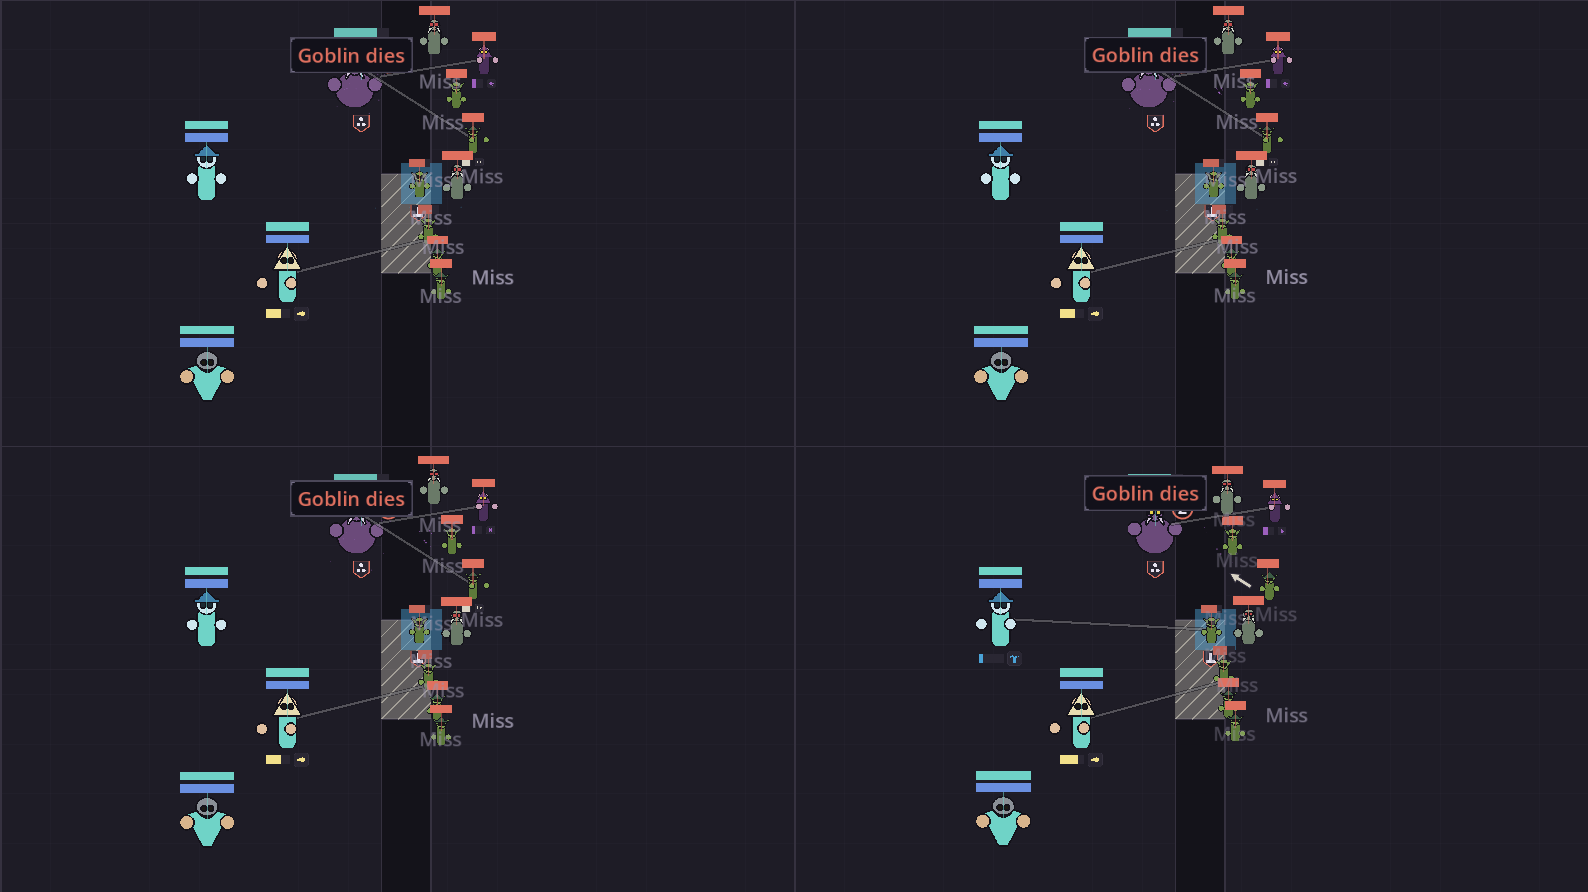
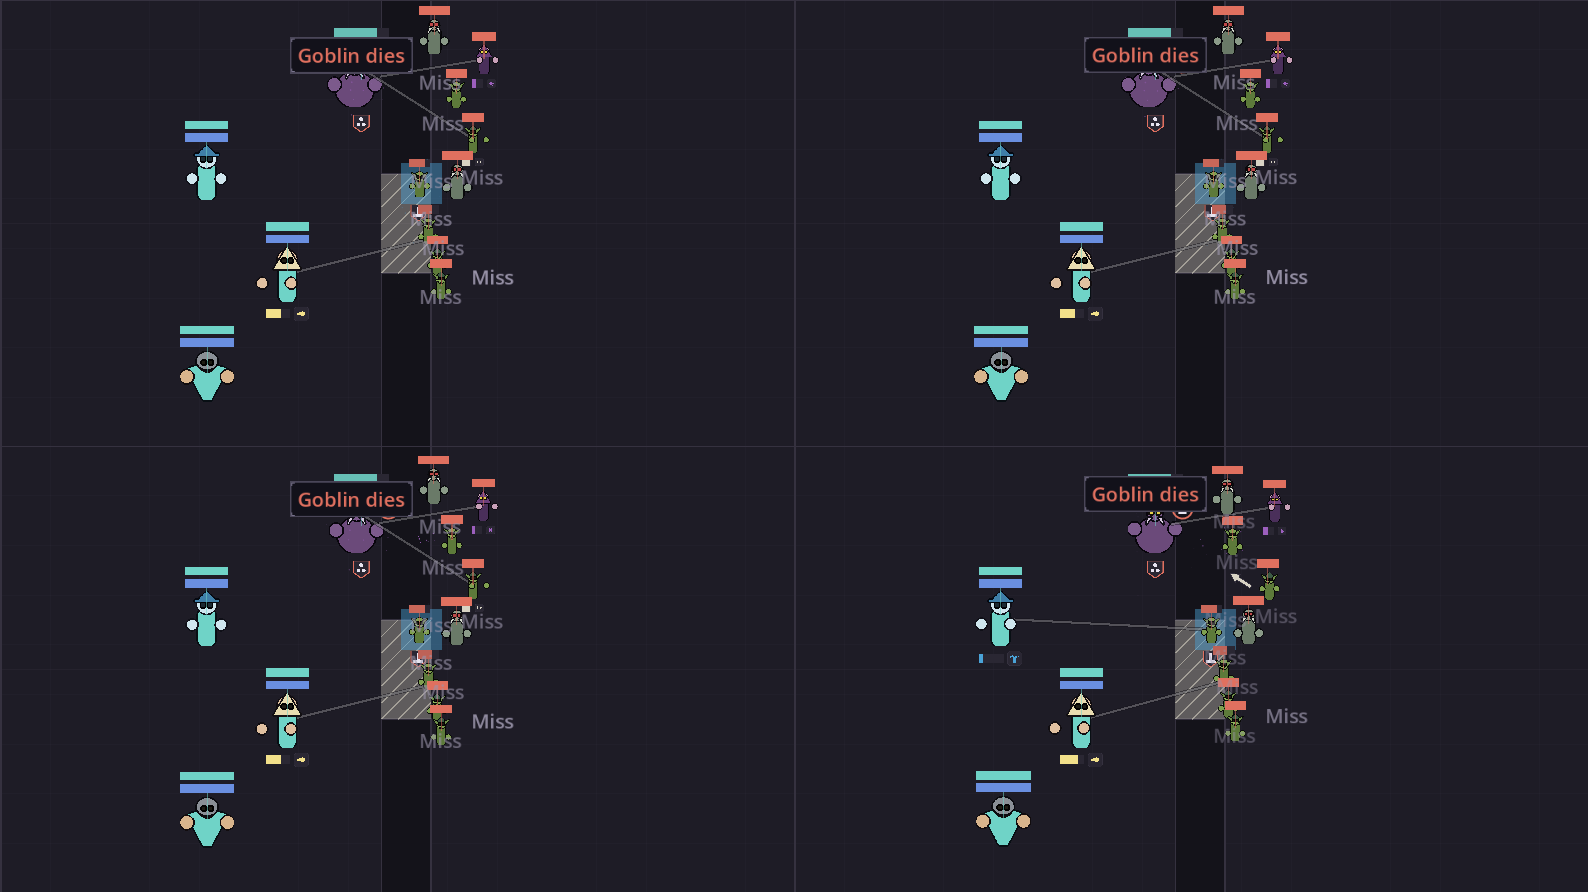
Re-shoot the previews, and correct what the docs and instruments now claim
Assets/Units/README.md described 242 files that no longer exist and a
"replace a unit with a hand drawing" path that cannot work any more, since
nothing loads a per-unit PNG. Rewritten around the slots.

HandCost printed "%d draw calls a body" from a hardcoded 3-if-hands-else-1.
That number is false now and a reader would have trusted it, so it prints
the real sprite count.

Tools/SlotMemory.gd is new and is the only thing that measures resident
texture memory. It watches every party fight in every pickable room through
the real battle screen, so it counts the art a wind-up and a death reach for
and not only the art a still body needs.

Tools/preview and the #589 death shots are re-shot from this branch.

Agent: sable

diff --git a/Assets/Units/README.md b/Assets/Units/README.md
@@ -1,43 +1,55 @@
 # Unit art
 
-A unit is a **recipe**, not a drawing. `Scripts/Art/UnitRecipes.gd` names the
-parts it is made of; `Tools/BakeParts.gd` draws the parts, composes each recipe
-for both teams, and writes the result here as `<id>.player.png` and
-`<id>.enemy.png`. `UnitArt.texture_for` loads those files and nothing else.
+A unit is a **recipe**, not a drawing, and it is never flattened into one.
+`Scripts/Art/UnitRecipes.gd` names the parts it is made of and sorts them into
+fixed slots; `Scripts/UI/UnitVisual.gd` builds a `Sprite2D` per part under a node
+per slot. **Everything in this folder is a part.** There is no per-unit file.
 
-Issue 566 replaced twenty-six hand drawings with this. The reason is the one the
-player gave: a new enemy should be *easier to make*, and `README.md` at the repo
-root carries seven bosses and seven mini-bosses of which two exist.
+Issue 566 replaced twenty-six hand drawings with recipes. The fixed-slot change
+then deleted the 242 files those recipes were baked into: one composite per unit
+per side, three animation slices, and one file per death chunk. Only the 27 parts
+remain, and a new creature adds none of them.
 
 ## Adding a creature
 
-1. Add a recipe to `Scripts/Art/UnitRecipes.gd`.
-2. Run the bake:
+Add a recipe to `Scripts/Art/UnitRecipes.gd`. That is the whole step. Nothing is
+baked, nothing is committed, and the creature is on screen the next time the game
+runs.
 
-   ```
-   powershell -ExecutionPolicy Bypass -File Tools\run.ps1 BakeParts -Headless
-   ```
+`Tools/BakeParts.gd` is run only when a **part's shape** changes, which is rare:
 
-3. Commit the parts and the composed files it wrote.
+```
+powershell -ExecutionPolicy Bypass -File Tools\run.ps1 BakeParts -Headless
+```
 
-The bake writes the same recipe three ways, and all three are committed art:
-
-- `<id>.<side>.png` here, the flat body `UnitArt.texture_for` draws.
-- `slices/<id>.<side>.s<n>.png`, the recipe cut at the parts that move, which
-  is what issue 583's animation draws.
-- `fragments/<id>.<side>.f<n>.png`, the recipe cut into the chunks a death
-  throws (issue 589), grouped body / head / hands. A part named in no group is
-  its own chunk, so a new part flies on its own rather than silently joining the
-  body it was drawn over. The bake also deletes a chunk file a shrunk recipe no
-  longer writes; without that, a part removed later leaves dead art in git.
+It draws the 27 parts from the polygon source in that file, dilates an outline
+ring around each one, and writes them here. Commit what it wrote.
 
 **A variant costs one part.** `goblin_archer` is the goblin's recipe plus a hat;
 `dungeon_archer` and `dungeon_cultist` are `dungeon_grunt` plus a hood;
-`rat_king` is the rat plus a gold hat. Use `{"base": &"other_id", "add":
-[...]}` rather than copying a stack, or the two drift.
+`rat_king` is the rat plus a gold hat. Use `{"base": &"other_id", "add": [...]}`
+rather than copying a stack, or the two drift.
 
 **A missing part is a black square.** The player's ruling, and deliberate: an
 obvious defect beats a silent hole in a body.
+
+## The slots
+
+Six, and they are the draw order, top to bottom of the list drawn last:
+
+`Body`, `Head`, `Headwear`, `Face`, `Hands`, `Extra`.
+
+A slot holds as many parts as the recipe put in it, in the order the recipe named
+them, because six slots cannot hold seven parts and `goblin_archer` has seven. A
+slot the recipe put nothing in draws nothing.
+
+**`Headwear` is under `Face`.** A hood covers the pixels the eyes sit on, so with
+Face first the Priest, the Cultist, both hooded dungeon soldiers, the Siege
+Master and The Warden all lose their eyes.
+
+A part named in no slot lands in `Extra`, so a part added later draws last rather
+than silently joining a group it was never put in. The slots are also the chunks
+a death throws (issue 589), which is why that matters twice.
 
 ## The parts vocabulary
 
@@ -46,51 +58,45 @@ Bodies are the player's three, plus one for the things that are not people:
 capsule's width), `body_rotund` (circle), `body_low`.
 
 Heads are `head_round`, `head_tall`, `head_small`, `head_snouted`. Features are
-`ears_pointed`, `nose_triangle`, `horns`, `crown`, `hood`, `hat`, `helm`,
-`plume`, `spikes`, `tusks`, `mandibles`, `tail`, `eyes`, `eyes_snout`,
+`ears_pointed`, `nose_triangle`, `horns`, `crown`, `hood`, `hat`, `hat_low`,
+`helm`, `plume`, `spikes`, `tusks`, `mandibles`, `tail`, `eyes`, `eyes_snout`,
 `barrel`, `wheels`. Hands are `hands` and `hands_wide`, free-floating circles
 with no arm.
 
-Every part carries its own outline, so a head has an edge where it crosses a
-body. Parts are authored in a 32-unit square and rasterised at 256, so every
-coordinate reads as a proportion of a body and the canvas size is one constant.
+**Every part carries its own outline ring, baked into its own PNG.** That is what
+gives a head an edge where it crosses a body, and it is why nothing has to be
+composited to get one. The recipe's colour is applied as the sprite's `modulate`,
+so one `body_skinny` serves a green goblin and a robed priest -- and the ring is
+tinted with it, which is the one pixel-level difference from the composites this
+replaced.
 
-## Replacing a unit with a hand drawing instead
-
-The old path still works, and it is how every unit here looked before issue 566.
-For a unit whose id is `X`:
-
-1. Delete its recipe from `Scripts/Art/UnitRecipes.gd`.
-2. Delete the composed `X.player.png` and `X.enemy.png` from this folder.
-3. Drop your drawing in as `X.png`, or as `X.player.png` and `X.enemy.png` if
-   the two sides should differ.
-
-Step 2 matters: a side-specific file is preferred over a shared one, so a
-composed `X.player.png` left behind will beat the `X.png` you just added.
+Parts are authored in a 32-unit square and rasterised at 256, so every coordinate
+reads as a proportion of a body and the canvas size is one constant.
 
 ## Every unit, and what it is made of
 
 | Unit | Recipe |
 | --- | --- |
-| `warrior.png` | muscular body, plume |
-| `priest.png` | capsule body, hood |
-| `geysermancer.png` | capsule body, hat |
-| `siege_master.png` | muscular body, helm |
-| `abomination.png` | rotund body, horns, tusks |
-| `goblin.png` | capsule body, pointed ears, nose |
-| `goblin_archer.png` | **the goblin, plus a hat** |
-| `dungeon_grunt.png` | muscular body |
-| `dungeon_archer.png` | **the grunt, plus a hood** |
-| `dungeon_cultist.png` | **the grunt, plus a purple hood** |
-| `rat.png` | low body, snouted head, tail |
-| `rat_king.png` | **the rat, plus a gold hat** |
-| `brute.png` | muscular body, horns |
-| `cultist.png` | capsule body, hood |
-| `ghoul.png` | capsule body, tusks |
-| `grub.png` | rotund body, mandibles |
-| `stalker.png` | capsule body, tail |
-| `siege_engine.png` | rotund body, wheels, barrel |
-| `the_warden.png` | muscular body, helm |
+| `warrior` | muscular body, plume |
+| `priest` | capsule body, hood |
+| `geysermancer` | capsule body, hat |
+| `siege_master` | muscular body, helm |
+| `abomination` | rotund body, horns, tusks |
+| `goblin` | capsule body, pointed ears, nose |
+| `goblin_archer` | **the goblin, plus a hat** |
+| `dungeon_grunt` | muscular body |
+| `dungeon_archer` | **the grunt, plus a hood** |
+| `dungeon_cultist` | **the grunt, plus a purple hood** |
+| `rat` | low body, snouted head, tail |
+| `rat_king` | **the rat, plus a gold hat** |
+| `brute` | muscular body, horns |
+| `cultist` | capsule body, hood |
+| `ghoul` | capsule body, tusks |
+| `grub` | rotund body, mandibles |
+| `stalker` | capsule body, tail |
+| `siege_engine` | rotund body, wheels, barrel |
+| `the_warden` | muscular body, helm |
 
-The filenames in that table are the ids. Each ships as `<id>.player.png` and
-`<id>.enemy.png`; `<id>.png` is the shared-drawing name step 3 above uses.
+A side is a colour, never a file: a layer marked `"team": true` takes
+`Palette.team_color`, and every part is shared by both sides and by every recipe
+that names it.
